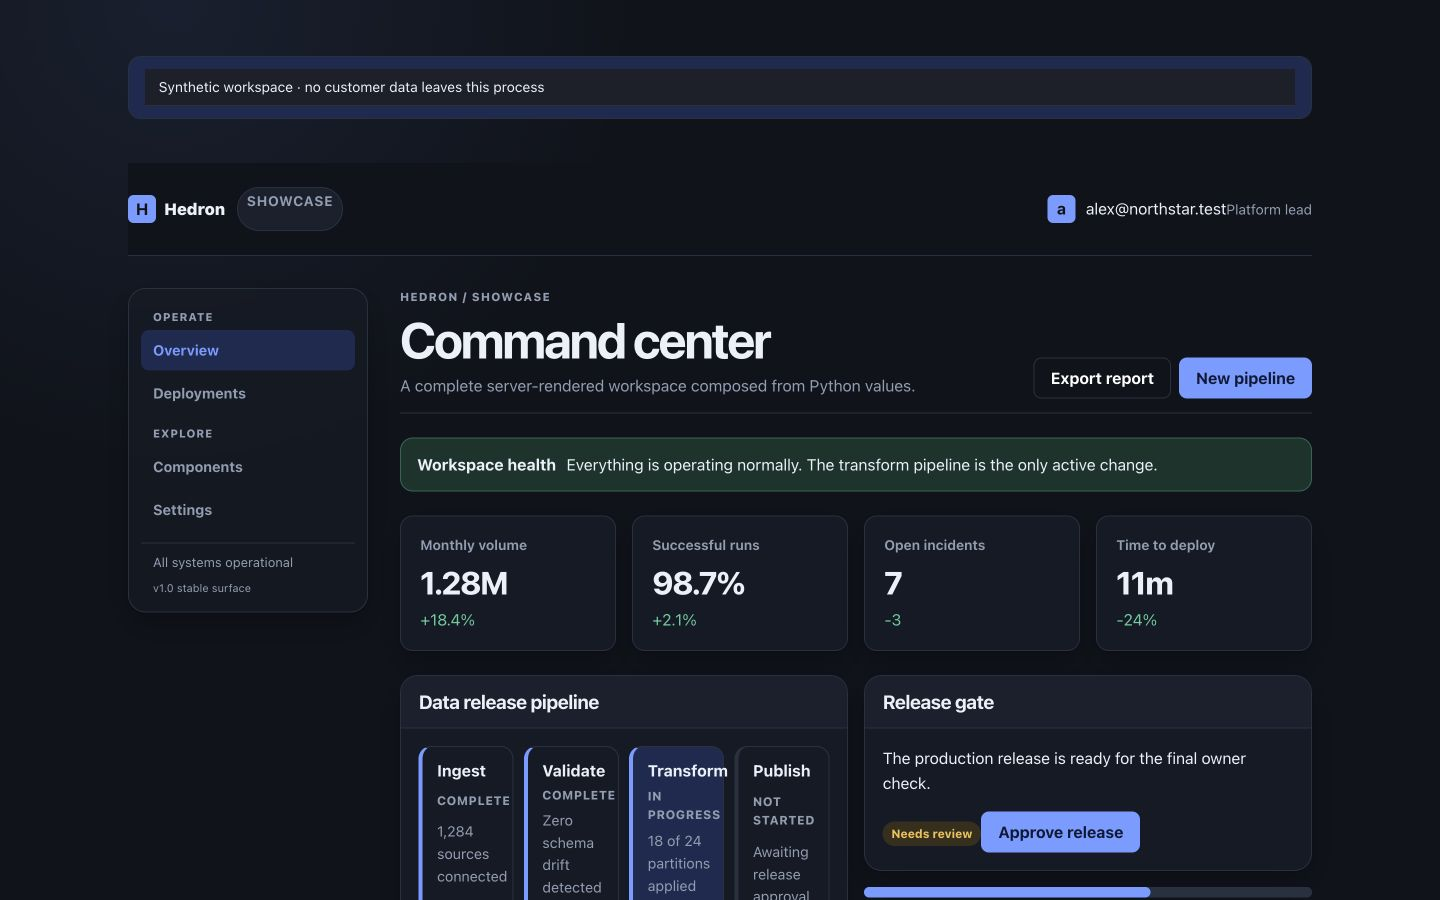
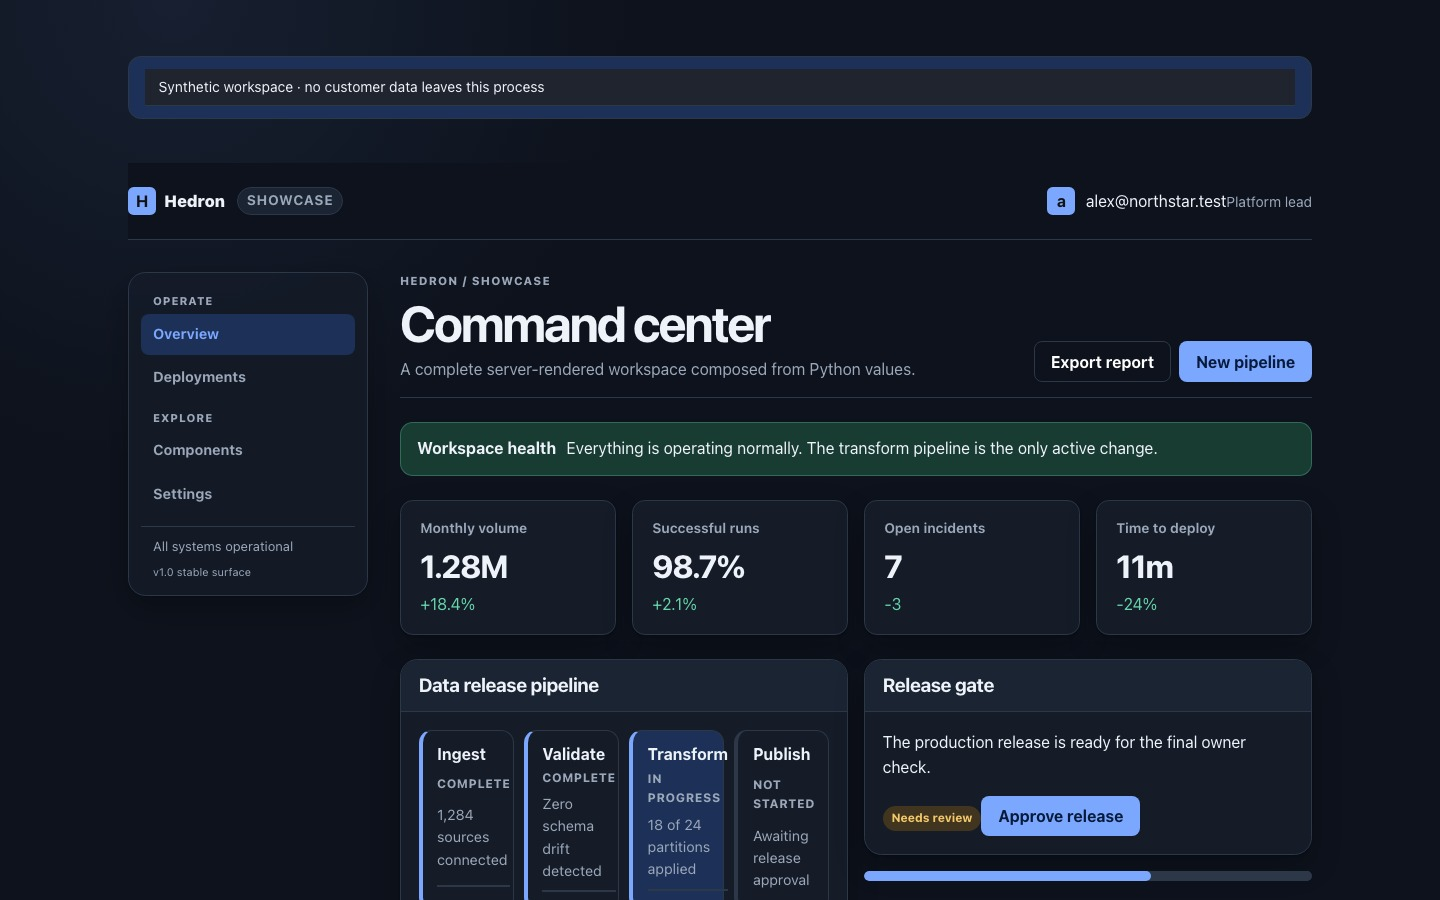
fix showcase badge alignment and prepare 1.0.10 release

diff --git a/docs/stylesheets/hedron-default.css b/docs/stylesheets/hedron-default.css
@@ -2675,6 +2675,10 @@
     text-transform: uppercase;
   }
 
+  .hedron-app-shell-env > .hedron-text {
+    margin-block: 0;
+  }
+
   .hedron-app-shell-account {
     display: flex;
     align-items: center;

diff --git a/packages/hedron-core/src/hedron_core/static/hedron-default.css b/packages/hedron-core/src/hedron_core/static/hedron-default.css
@@ -2675,6 +2675,10 @@
     text-transform: uppercase;
   }
 
+  .hedron-app-shell-env > .hedron-text {
+    margin-block: 0;
+  }
+
   .hedron-app-shell-account {
     display: flex;
     align-items: center;

diff --git a/packages/hedron/src/hedron/static/hedron-default.css b/packages/hedron/src/hedron/static/hedron-default.css
@@ -2675,6 +2675,10 @@
     text-transform: uppercase;
   }
 
+  .hedron-app-shell-env > .hedron-text {
+    margin-block: 0;
+  }
+
   .hedron-app-shell-account {
     display: flex;
     align-items: center;

diff --git a/packages/hedron/src/hedron/__init__.py b/packages/hedron/src/hedron/__init__.py
@@ -561,7 +561,7 @@ def __getattr__(name: str) -> object:
     raise AttributeError(f"module {__name__!r} has no attribute {name!r}")
 
 
-__version__ = "1.0.9"
+__version__ = "1.0.10"
 
 # Stable + beta public facade. Live transports live in ``hedron.experimental``
 # (compat attribute access retained via ``__getattr__``). Optional data/charts/auth

diff --git a/packages/hedron-django/src/hedron_django/__init__.py b/packages/hedron-django/src/hedron_django/__init__.py
@@ -23,7 +23,7 @@ from hedron_django.routing import DjangoUrlReverser, action, hedron_view, page, 
 from hedron_django.static_mount import hedron_static_urlpatterns
 from hedron_django.urls import component_path, hedron_paths, include_component_path
 
-__version__ = "1.0.9"
+__version__ = "1.0.10"
 
 __all__ = [
     "DjangoUrlReverser",

diff --git a/tests/unit/test_ecosystem_054.py b/tests/unit/test_ecosystem_054.py
@@ -366,6 +366,7 @@ def test_default_stylesheet_ships_the_new_class_hooks() -> None:
         ".hedron-icon",
         ".hedron-nav-group",
         ".hedron-app-shell-header",
+        ".hedron-app-shell-env > .hedron-text",
         ".hedron-type-eyebrow",
         ".hedron-visually-hidden",
         "--hedron-nav-width",

diff --git a/packages/hedron-charts/src/hedron_charts/__init__.py b/packages/hedron-charts/src/hedron_charts/__init__.py
@@ -22,7 +22,7 @@ from hedron_charts.optional_adapters import optional_adapters
 from hedron_charts.pins import RUNTIME_PINS, ensure_pin_stubs, pinned_runtime, verify_pin
 from hedron_charts.spec import ChartPlan, ChartSpec
 
-__version__ = "1.0.9"
+__version__ = "1.0.10"
 
 __all__ = [
     "AltairAdapter",

diff --git a/packages/hedron-flask/src/hedron_flask/__init__.py b/packages/hedron-flask/src/hedron_flask/__init__.py
@@ -15,7 +15,7 @@ from hedron_flask.responses import component_response, interaction_response
 from hedron_flask.routing import FlaskUrlReverser, hedron_route
 from hedron_flask.static_mount import mount_hedron_static
 
-__version__ = "1.0.9"
+__version__ = "1.0.10"
 
 __all__ = [
     "FlaskUrlReverser",

diff --git a/tests/unit/test_maps_047_pkg.py b/tests/unit/test_maps_047_pkg.py
@@ -9,7 +9,7 @@ from hedron_maps.pins import RUNTIME_PINS, assert_pins_present
 
 
 def test_package_version_and_pin() -> None:
-    assert __version__ == "1.0.9"
+    assert __version__ == "1.0.10"
     assert MAPLIBRE_VERSION == "5.6.1"
     assert MAPLIBRE_VERSION != "4.5.0"
     assert_pins_present()

diff --git a/packages/hedron-jinja/src/hedron_jinja/__init__.py b/packages/hedron-jinja/src/hedron_jinja/__init__.py
@@ -59,7 +59,7 @@ from hedron_jinja.providers import (
 from hedron_jinja.source import validate_element_declarations
 from hedron_jinja.type_authoring import refuse_annotation_evaluation, registered_type_schema
 
-__version__ = "1.0.9"
+__version__ = "1.0.10"
 
 __all__ = [
     "AsyncIoBudget",

diff --git a/packages/hedron-extras/src/hedron_extras/experimental.py b/packages/hedron-extras/src/hedron_extras/experimental.py
@@ -36,7 +36,7 @@ _ROOT = Path(__file__).resolve().parent
 
 PLUGIN_META = PluginMeta(
     name="hedron_extras_experimental",
-    version="1.0.9",
+    version="1.0.10",
     distribution="hedron-extras",
     hedron_version=">=1.0,<2.0",
     depends_on=("hedron_extras",),

diff --git a/packages/hedron-extras/src/hedron_extras/sandbox_plugin.py b/packages/hedron-extras/src/hedron_extras/sandbox_plugin.py
@@ -27,7 +27,7 @@ _SANDBOX_REL = "assets/sandbox/bridge.js"
 
 PLUGIN_META = PluginMeta(
     name="hedron_extras_sandbox",
-    version="1.0.9",
+    version="1.0.10",
     distribution="hedron-extras",
     hedron_version=">=1.0,<2.0",
     depends_on=("hedron_extras",),
